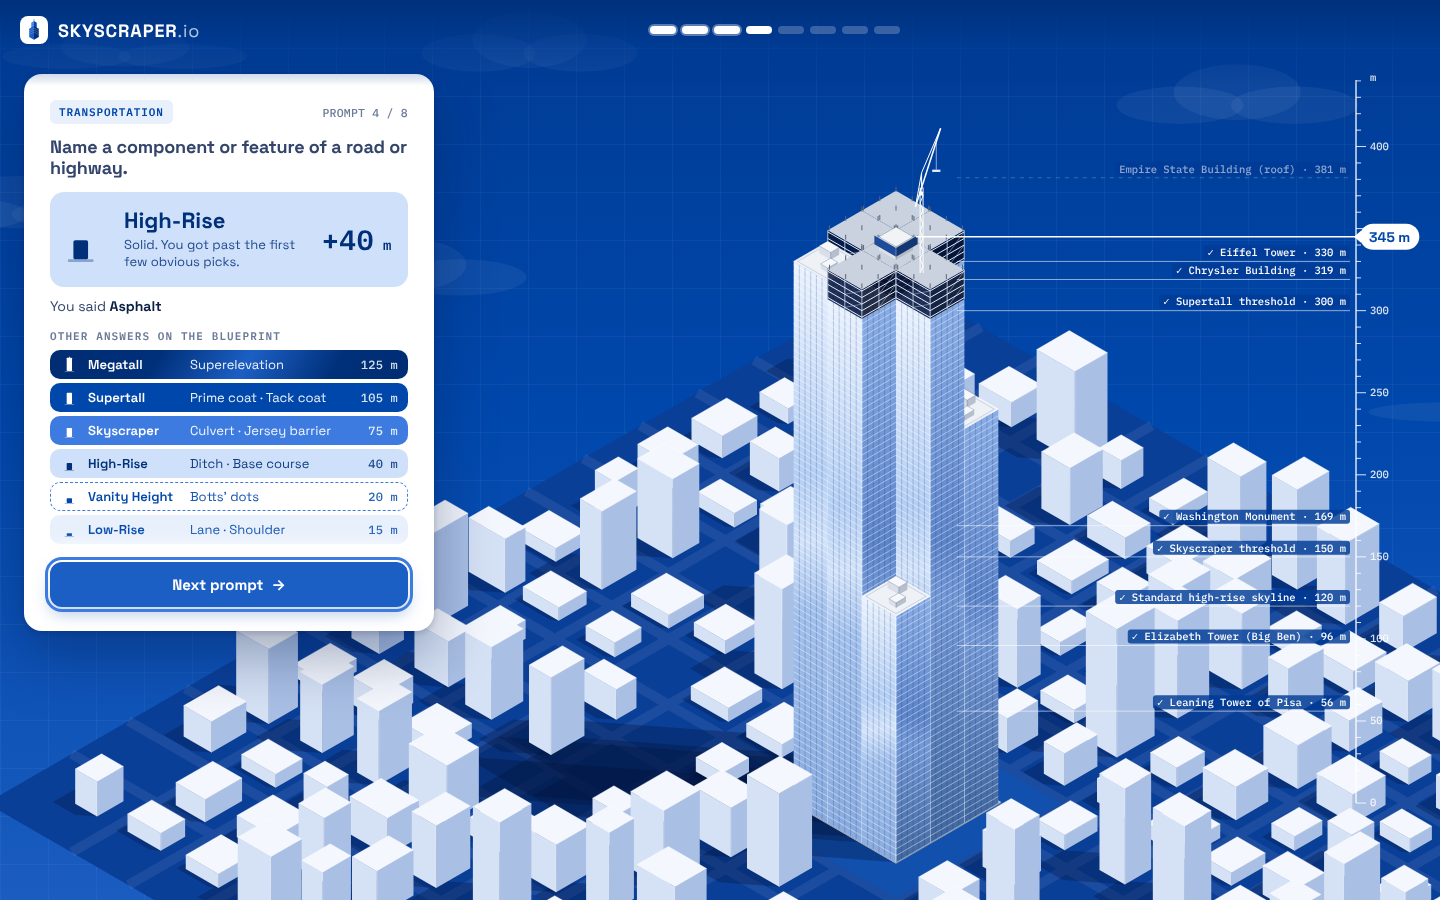
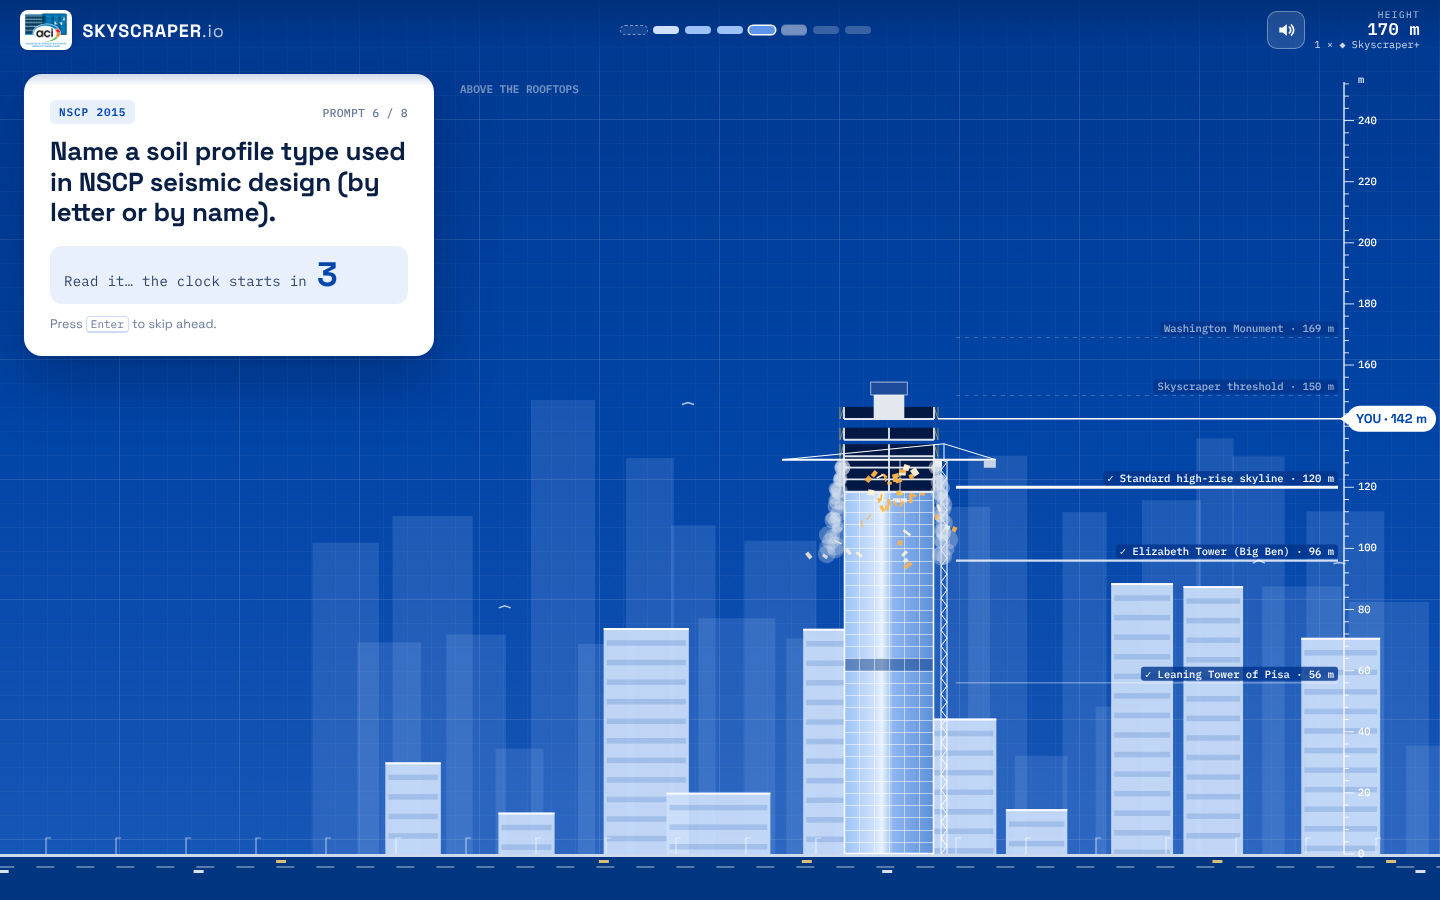
Update README and HANDOVER for the v2 engine and data
Claude-Session: https://claude.ai/code/session_01LmAWUD8NyHJz57tf6G9451

diff --git a/README.md b/README.md
@@ -1,6 +1,6 @@
 # Skyscraper.io
 
-A civil-engineering trivia game. Answer **8 prompts** in **25 seconds** each. Every valid answer adds floors to your tower, and **rarer answers build higher**. Eight perfect answers top out at **1,000 m**.
+A civil-engineering trivia game by the ACI TIP Quezon City Student Chapter. Answer **8 prompts** in **25 seconds** each. Every valid answer adds floors to your tower, and **rarer answers build higher**. Eight perfect answers top out at **1,000 m**.
 
 The scoring is inspired by daily "rarity" trivia games: correctness only qualifies an answer, and rarity decides how much it scores.
 
@@ -26,9 +26,19 @@ The scoring is inspired by daily "rarity" trivia games: correctness only qualifi
 
 Each visit draws a fresh random set of 8 prompts. Prompts you have seen recently are held back, and the draw mixes categories.
 
+![A gem answer: hoist, reveal and build-up](docs/gem-sequence.gif)
+
+## How a prompt plays
+
+1. **Read it.** The prompt appears with a 3-second countdown before the input and the 25-second timer show up (Enter skips it).
+2. **Answer.** Your answer becomes a load on the crane hook and is **hoisted up past the tier lines**. The rarer the answer, the longer the ride: 0.6 s for a miss, 4.6 s for a gem. A Vanity (trap) answer sags back, and a miss drops off the hook.
+3. **Full-screen reveal.** Every answer gets one, and the intensity climbs with the tier: flash, shake, sparks, rings and rays, then gold confetti, a GEM badge and a fanfare for a Megatall. The reveal shows the matched answer, the height gained and a one-line fact.
+4. **Build-up.** Floors slam onto the tower one at a time with dust, welding sparks and clanks, and the crane climbs after big gains. Altitude zones (street level, above the rooftops, skyline, cloud base, above the clouds…) and landmark lines appear as you rise.
+
 ## How it looks
 
-- **While building:** a cobalt sky over a white "massing model" city. Your tower goes up as a construction timelapse: glass curtain wall, an exposed steel frame and slabs at the working face, a concrete core with climbing formwork, and a tower crane on top. Clouds and the building's shadow race across the scene while it grows. A ruler on the right shows the height, with ghost lines for real landmarks.
+- **While building:** a flat 2D front elevation of the tower on a cobalt blueprint grid: glass curtain wall with white mullions, open frame and scaffolding at the top, a concrete core and an external tower crane. A ruler on the right shows the height with a YOU marker and ghost lines for real landmarks.
+- **Sound:** every cue is synthesised in the browser with WebAudio (no audio files). The speaker button at the top right mutes it, and the setting is remembered.
 - **When it tops out:** the page turns white over a faint cobalt blueprint grid. The crane leaves, and the crown and spire complete. The tower slides to the right, a rotating 3D structural CAD model appears on the left (drag to spin), and structural plan sheets sit faintly in the background. The summary in the middle shows your eight answers and every milestone you cleared.
 
 The tower is a **bundled tube**: a 3 × 3 grid of 24 m cells. Each outer cell tops out at its own height (150 m to 880 m), so taller towers step back like real megatalls. The CAD model shows belt trusses at each of those transfer levels.
@@ -81,12 +91,25 @@ node tools/check-dataset.js
 
 It reports duplicate keys and answers that could be confused through typo tolerance.
 
-**Sources:** the starter set was written for this game. Prompts and deep cuts for roofs, brick bonds, arches, windows, stairs, cranes, materials tests, hammers and walls were drawn from the headword families of *A Dictionary of Construction, Surveying and Civil Engineering* (Gorse, Johnston & Pritchard, Oxford, 2nd ed.), and the obscure terms were checked against its definitions.
+### Optional fields
+
+```js
+facts:  { "Lenticular": "One-line fact shown in the reveal." },   // keyed by display name; every gem must have one
+source: "NSCP 2015 §402.3"                                          // citation for reviewers; not shown in the UI
+```
+
+### Long-tail answers: `data/expansions.js`
+
+Open-ended prompts such as "Name a real bridge" or "Name a real dam" have hundreds of valid answers. The long tail lives in [`data/expansions.js`](data/expansions.js), keyed by prompt id, and is merged in at load time. Anything that duplicates a curated answer is skipped, so tiers in `questions.js` always win. Expansions only add High-Rise, Skyscraper and Supertall answers.
+
+**Sources:** the prompts were written for this game. The roof, wall, crane and materials-test prompts draw on the headword families of *A Dictionary of Construction, Surveying and Civil Engineering* (Gorse, Johnston & Pritchard, Oxford, 2nd ed.). The 15 `NSCP 2015` prompts cite the National Structural Code of the Philippines section each answer comes from. Philippine entries are tiered for a Filipino student audience, so Angat Dam and San Juanico Bridge are Low-Rise.
 
 ## Customising
 
 - **Chapter logo:** the header shows `assets/aci-chapter-logo.png` (the ACI TIP Quezon City Student Chapter logo, cropped from the transparent original). Replace the file to change it.
 - **Tiers, milestones, round size, timer:** edit [`js/config.js`](js/config.js).
+- **Effect intensity:** `FX` in `js/config.js` sets, per tier, the hoist time, the reveal scrim, particle count and kind, shake and flash.
+- **Altitude zones:** `ZONES` in `js/config.js`.
 
 ## Files
 
@@ -95,9 +118,13 @@ index.html            page shell
 css/style.css         cobalt & white UI
 js/config.js          tiers, milestones, tower geometry
 js/matcher.js         answer matching (shared with the checker)
-js/tower.js           isometric construction renderer (canvas)
+js/sfx.js             synthesised sound effects + mute
+js/fx.js              particles, flashes, shake, the hoist sequence
+js/flat.js            flat 2D gameplay renderer (front elevation)
+js/tower.js           isometric tower (end screen only)
 js/cad.js             3D structural model + plan sheets
 js/game.js            game flow
-data/questions.js     prompt dataset
+data/questions.js     prompt dataset (curated tiers, facts, sources)
+data/expansions.js    long-tail answers for open-ended prompts
 tools/check-dataset.js
 ```

diff --git a/HANDOVER.md b/HANDOVER.md
@@ -1,0 +1,70 @@
+# Handover: Skyscraper.io
+
+For the next Claude session working on this project. Read this file first, then `README.md`.
+
+## What this is
+
+A browser trivia game for civil-engineering students, built for the **ACI Technological Institute of the Philippines, Quezon City Student Chapter**. Each round has 8 prompts with 25 seconds per answer. Answers are scored by **rarity** across 6 tiers, and they build a skyscraper of up to 1,000 m. The mechanic is borrowed from Krillion.io's Daily Dive; its branding, art and sounds are not.
+
+- **Repo:** https://github.com/ACIP-TIP-QC-SC/Structure.io (`main`). **Live:** https://acip-tip-qc-sc.github.io/Structure.io/
+- Static site with **no build step and no dependencies**, using plain `<script>` tags. It must keep working from `file://` as well as GitHub Pages: no ES modules and no `fetch()`.
+- Working style: make the change, take desktop (1440×900) and mobile (390×844) screenshots, send them, commit to `main`.
+
+## Current state (v2, 2026-11-26)
+
+The v2 engine rework from `HANDOFF_engine_rework.md` (written by the ACI Website project session) is implemented:
+
+| Area | Where |
+|---|---|
+| Phases `intro → countdown → question → hoist → reveal → … → topping → end` on `body[data-phase]` | `js/game.js` |
+| 3 s read-then-countdown (Enter skips) | `showCountdown()` |
+| Hoist: the answer rides the crane hook past the tier lines, with time scaled by rarity (0.6–4.6 s) | `Fx.hoist()` in `js/fx.js`, times in `CFG.FX` |
+| Full-screen reveal on every answer, with intensity from `TIERS[i].fx`; gold is reserved for the gem | `showReveal()`; `.reveal*` CSS |
+| No "other answers" list and no gem spoiler on the end screen | removed |
+| Flat 2D front-elevation gameplay: floors slam in, dust, sparks, crane climbs, altitude zones, milestone lines, YOU marker | `js/flat.js` |
+| Isometric tower only on the end screen: lazy `Tower.init`, quick timelapse from 60% height, then `finish()` | `endRound()`, `js/tower.js` |
+| WebAudio sound, no files, mute persisted in `localStorage.sky_mute` | `js/sfx.js` |
+| Tier-coloured pips (gold for the gem), HEIGHT plus a Skyscraper+ count, mute button | `renderPips()`, `setHud()` |
+| "Hook" mascot, kept minimal: the crane hook wears a yellow hard hat during the hoist | `drawHook()` in `js/fx.js` |
+
+The end screen is unchanged: white blueprint grid, isometric tower on the right, a rotating multi-coloured 3D CAD model with a legend on the left (`js/cad.js`, untouched), plan sheets and the summary.
+
+**Verified on 2026-11-26:** 3 full rounds with no console errors; works from `file://`; no errors without WebAudio; reduced motion gives a calm version; mute survives a reload; 60 fps in a Pixel 7 emulation during a gem hoist, reveal and build-up (measured on a server CPU, not a real phone). Hoist timings match the brief within about 250 ms.
+
+## Data
+
+- `data/questions.js` is the v2 bank: 52 prompts, including 15 tagged `NSCP 2015` with `source` citations. Every gem has a `facts` entry. Philippine dams and bridges are included, and footing and foundation count as structural elements.
+- `data/expansions.js` holds about 850 long-tail answers for open-ended prompts: real bridges (about 395 total), real dams (about 236), failures, engineers, PH roads, CE software and formula names. It is merged by prompt id in `SkyMatcher.applyExpansions()`, and curated tiers win. **Add newly reported "this real X wasn't accepted" answers here**, choosing the tier by fame:
+  - High-Rise: famous worldwide
+  - Skyscraper: known to engineers
+  - Supertall: a genuine deep cut
+- `node tools/check-dataset.js` must report **0 errors**. It errors on gems without facts, facts keys that aren't display names, duplicate keys and unknown expansion ids. The warnings are typo-tolerance pairs, where an exact match still wins.
+- Wikidata and Wikipedia rate-limit this cloud environment, so the long tail was curated by hand and spot-checked with web searches. Unbuilt or unconfirmed entries were dropped: the Bataan–Cavite bridge from "real bridge", plus Laiban, Chico River, Pasonanca and Upper Pulangi. Bataan–Cavite and Samal–Davao are still accepted in `ph-bridges` only, because both are well-known projects under way.
+- Tier placement is editorial judgement. The chapter's members are the best reviewers of it.
+
+## Open questions for Ellis (defaults in effect)
+
+1. Remove the gem spoiler from the end-screen rows: **done** (each row now shows the tier's one-liner on hover or tap instead).
+2. Gold accent for gems only: **yes**, using `#f5b400`. The Vanity tier line and stamp also use amber, so the trap reads as a warning.
+3. More than one NSCP prompt per round: **no**, one per category in the first pass. To change it, allow `cats["NSCP 2015"] < 2` in `pickRound()`.
+4. Full "Hook" mascot that follows the player and celebrates in the reveal: only the hook-with-hard-hat in the hoist is built.
+
+## Testing recipe
+
+```bash
+python3 -m http.server 8766
+```
+
+Drive it with Playwright:
+1. Click `#startBtn`. For each of the 8 prompts:
+   - press Enter (skips the countdown)
+   - fill `#answer` from `SkyGame.state.round[i].tiers[...]` and press Enter
+   - wait for `SkyGame.state.phase === "reveal"`, then click `#nextBtn`
+2. To force a timeout, set `SkyGame.state.deadline = performance.now() + 300`.
+3. Set `SkyGame.skipFx = true` to make every animation instant, which is useful for fast multi-round tests.
+4. Collect `pageerror` and console errors; there should be none.
+
+## Possible next steps
+
+- More open-ended long tails (PH flyovers, PH buildings) and a printable tier sheet for member review.
+- The out-of-scope items from the brief (percentile curve, daily mode) need a server.
